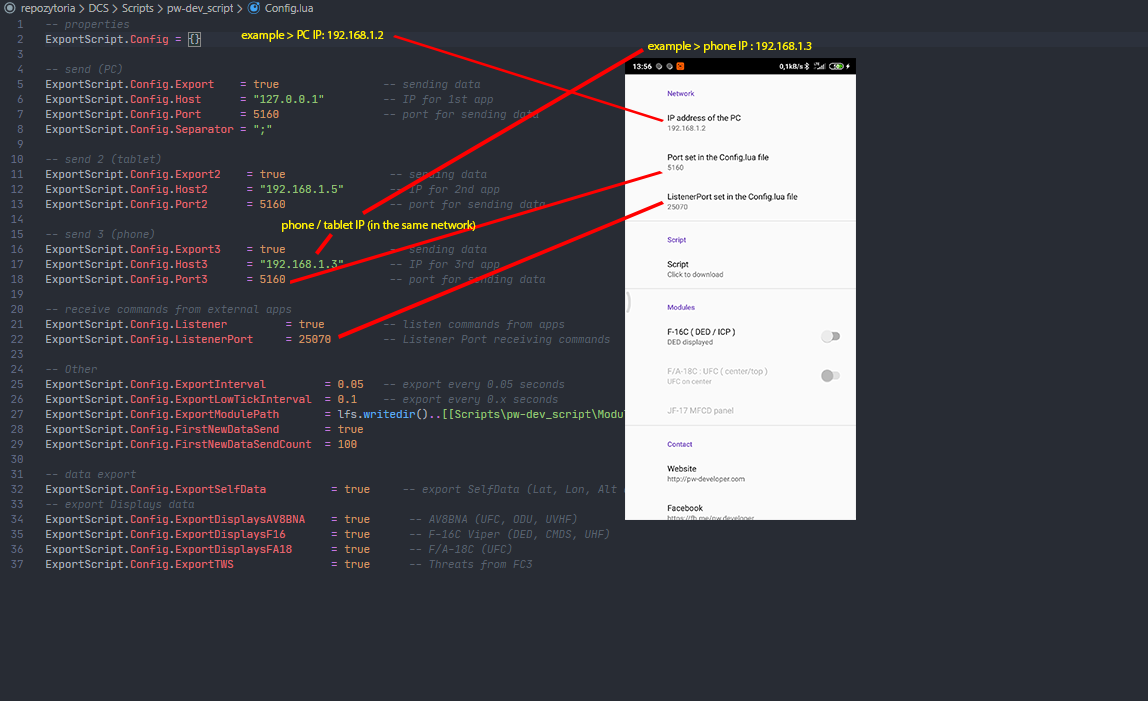
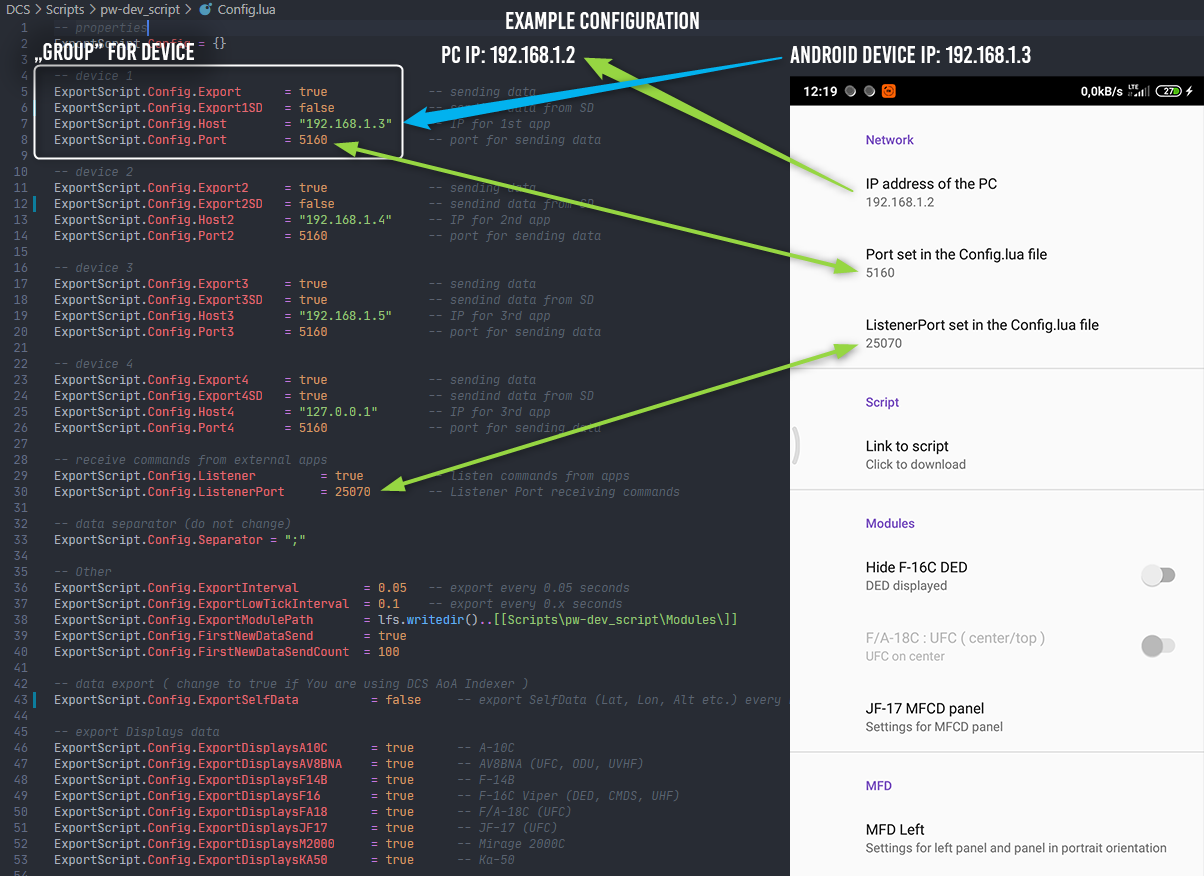
2020.07.16

diff --git a/README.md b/README.md
@@ -29,64 +29,31 @@ you'll find it on the "Releases" page
 [![DCS UFC](.gfx/yt_dcsufc.jpg)](https://youtu.be/qGfzUdCVLwc)  
 [![DCS AoA Indexer](.gfx/yt_aoa.jpg)](https://youtu.be/OU6KO8tjmGo)
 
-# manual installation
+# installation
 
-click that green button `Clone or download` and download ZIP file, save it wherevere You want on disk and unpack
+download latest script version in ZIP file from this link: [https://github.com/pet333r/pw-dev_script/releases/download/script/Scripts.zip](https://github.com/pet333r/pw-dev_script/releases/download/script/Scripts.zip), save it wherevere You want on disk and unpack
 
 next go to and open folder: (depending on the DCS World version you have installed..)
 * `c:\Users\{Your username}\Saved Games\DCS.openbeta\Scripts\`
 * `c:\Users\{Your username}\Saved Games\DCS\Scripts\`  
 or if you have both, choose one or both DCS versions to install script;-)
 
-if You don't have folder `Scripts`, simply create it and inside create file `Export.lua`
-open it for edit, I recommend Notepad++ for this and add: 
+## if you don't have a folder "Scripts"
+
+if You don't have folder `Scripts`, simply copy folder `Scripts` from unpacked ZIP file to one of the locations and go to [Edit Config.lua](##edit-Config.lua)
+
+## if you have "Scripts" folder and have installed other scripts
+
+- copy `pw-dev_script` folder from unpacked ZIP file into `Scripts` folder 
+- open main `Export.lua` file in `Scripts` folder (recommend Notepad++ for this) and add this code to the beginning of the file (above the entries for other scripts, example here: [compability](#compability)) 
 
 ```
-local lfs=require('lfs');
-dofile(lfs.writedir()..[[Scripts\pw-dev_script\Export.lua]])
+local lfs=require('lfs'); dofile(lfs.writedir()..[[Scripts\pw-dev_script\Export.lua]])
 ```
-save & close
+- save & close
+- now go to [Edit Config.lua](##edit-Config.lua)
 
-in `Scripts` folder create folder `pw-dev_script`, next put all files from extracted ZIP into this folder, the scheme of the folder with files should look like this  
-```
-\Scripts
-  - \pw-dev_script
-    - \lib
-    - \Modules
-    -  Config.lua
-    -  Export.lua
-  ``` 
-
-## automatic update script
-
-in the future, just run the file `update_pw-dev_script.bat` to download the latest version of the script (the `Config.lua` file will be kept, the others will be replaced with the latest version)  
-just run it from time to time or add a shortcut in the Windows Startup folder to have the script updated during system startup
-
-## edit Config.lua 
-in folder `pw-dev_script` open `Config.lua` for edit,  
-there are several "groups" in the file: 
-* device 1
-* device 2
-* device 3
-* device 4
-
-choose one of them and edit `Host` and `Port` (you can leave port the same, in most cases you don't even need to change)  
-it is <span style="color:red">**IMPORTANT**</span> that the device's IP address matches and `PC / phone / tablet` must be on the same network  
-
-### apps
-- if You only use `DCS UFC` [https://play.google.com/store/apps/details?id=com.dcsufc](https://play.google.com/store/apps/details?id=com.dcsufc) set `ExportSelfData` to `false` (less data to be sent and processed by the application, longer battery life)
-```
-ExportScript.Config.ExportSelfData          = false
-```
-- other applications `DCS AoA Indexer` [https://play.google.com/store/apps/details?id=com.dcsaoaindexer](https://play.google.com/store/apps/details?id=com.dcsaoaindexer) must have this value set to `true` for proper working
-
-example you will find below in the screenshot
-
-To find Android device IP: go to `Settings > WiFi` > check the properties of your network   
-
-to find the IP address of the computer with DCS World installed: [https://www.digitalcitizen.life/find-ip-address-windows](https://www.digitalcitizen.life/find-ip-address-windows)
-
-# files scheme
+## files scheme
 
 this is how the file scheme with folders should look
 
@@ -98,8 +65,7 @@ this is how the file scheme with folders should look
     -  Config.lua (edit IP / port connected devices)
     -  Export.lua
 
-  - Export.lua (add:  local lfs=require('lfs');
-                      dofile(lfs.writedir()..[[Scripts\pw-dev_script\Export.lua]]))
+  - Export.lua add:  local lfs=require('lfs'); dofile(lfs.writedir()..[[Scripts\pw-dev_script\Export.lua]])
   ```
 
 should look like this (depending on the DCS version)  
@@ -108,10 +74,61 @@ folder `Scripts`
 folder `pw-dev_script` inside `Scripts`  
 ![](.gfx/folders2.png)
 
+<!--
+in `Scripts` folder create folder `pw-dev_script`, next put all files from extracted ZIP into this folder, the scheme of the folder with files should look like this  
+```
+\Scripts
+  - \pw-dev_script
+    - \lib
+    - \Modules
+    -  Config.lua
+    -  Export.lua
+  ``` 
+-->
+
+
+
+## edit Config.lua 
+in folder `pw-dev_script` open `Config.lua` for edit, there are several "groups" in the file: 
+* device 1
+* device 2
+* device 3
+* device 4
+
+choose one of them and edit `Host` and `Port` (you can leave port the same, in 99% cases you don't even need to change)  
+it is <span style="color:red">**IMPORTANT**</span> that the device's IP address matches and `PC / phone / tablet` must be on the same network  
+
+### configuration for apps
+- if You only use `DCS UFC` [https://play.google.com/store/apps/details?id=com.dcsufc](https://play.google.com/store/apps/details?id=com.dcsufc) set `ExportSelfData` to `false` (less data to be sent and processed by the application, longer battery life)
+```
+ExportScript.Config.ExportSelfData          = false
+```
+- `DCS AoA Indexer` [https://play.google.com/store/apps/details?id=com.dcsaoaindexer](https://play.google.com/store/apps/details?id=com.dcsaoaindexer) must have `ExportSelfData` and `ExportXSD` set to `true` for proper working
+```
+ExportScript.Config.ExportXSD               = true (where X is Your device group to which the IP of the device from the DCS AoA Indexer is assigned)
+...
+ExportScript.Config.ExportSelfData          = true
+```
+
+example you will find below in the [example connection](#example-connection)
+
+# automatic update script
+
+in the future, just run the file `update_pw-dev_script.bat` to download the latest version of the script (the `Config.lua` file will be kept, the others will be replaced with the latest version)  
+just run it from time to time or add a shortcut in the Windows Startup folder to have the script updated during system startup
+
+# how to find IP's of PC and Android device
+
+To find Android device IP: go to `Settings > WiFi` > check the properties of your network   
+
+to find the IP address of the computer with DCS World installed: [https://www.digitalcitizen.life/find-ip-address-windows](https://www.digitalcitizen.life/find-ip-address-windows)
+
+
+
 # example connection
 Example configuration:  
 PC IP: 192.168.1.2  
-phone IP: 192.168.1.3  
+Android device IP: 192.168.1.3  
 
 ![](.gfx/dcs_script_connection.png)
 
@@ -126,7 +143,10 @@ phone IP: 192.168.1.3
 ***`1`*** If You can interact with DCS but not receiving data  
   - You probably set wrong Your Android device IP in `Config.lua` file
 
-***`2`*** If you receive data from DCS but no button works  
+***`2`*** If Your device stopped receiving data
+  - Your router has likely assigned a different IP address to your Android device
+
+***`3`*** If you receive data from DCS but no button works  
   - check if you have the correct PC address given in the DCS UFC settings  
   - your firewall probably blocking incomming connections, turn off the firewall for a few minutes and check if everything works (to unblock the default ListenerPort: 25070 / UDP)  
   [https://www.windowscentral.com/how-open-port-windows-firewall](https://www.windowscentral.com/how-open-port-windows-firewall)
@@ -144,8 +164,7 @@ tested and works with :
  for users using SRS and VaicomPro (works when the script entry is "higher" in the file, above the SRS / VaicomPro entry)  
  example of the main `Export.lua` file (thanks to one user: `Arsenio`)
  ```
- local lfs=require('lfs');
-dofile(lfs.writedir()..[[Scripts\pw-dev_script\Export.lua]]);
+local lfs=require('lfs'); dofile(lfs.writedir()..[[Scripts\pw-dev_script\Export.lua]]);
 
 local vaicomlfs = require('lfs'); dofile(vaicomlfs.writedir()..[[Scripts\VAICOMPRO\VAICOMPRO.export.lua]]);
 
